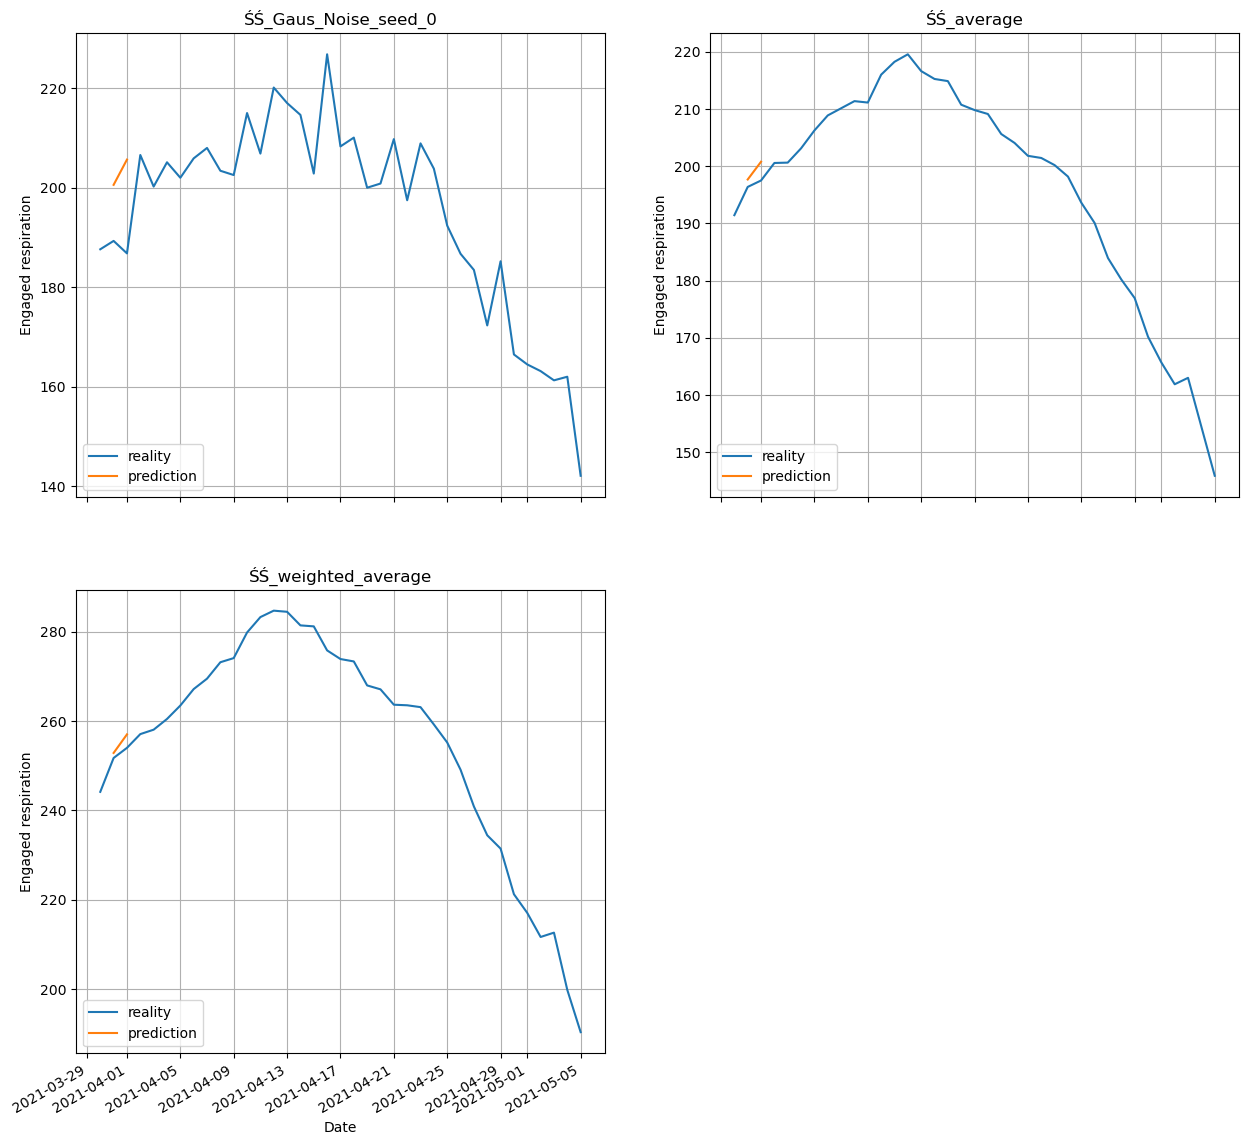
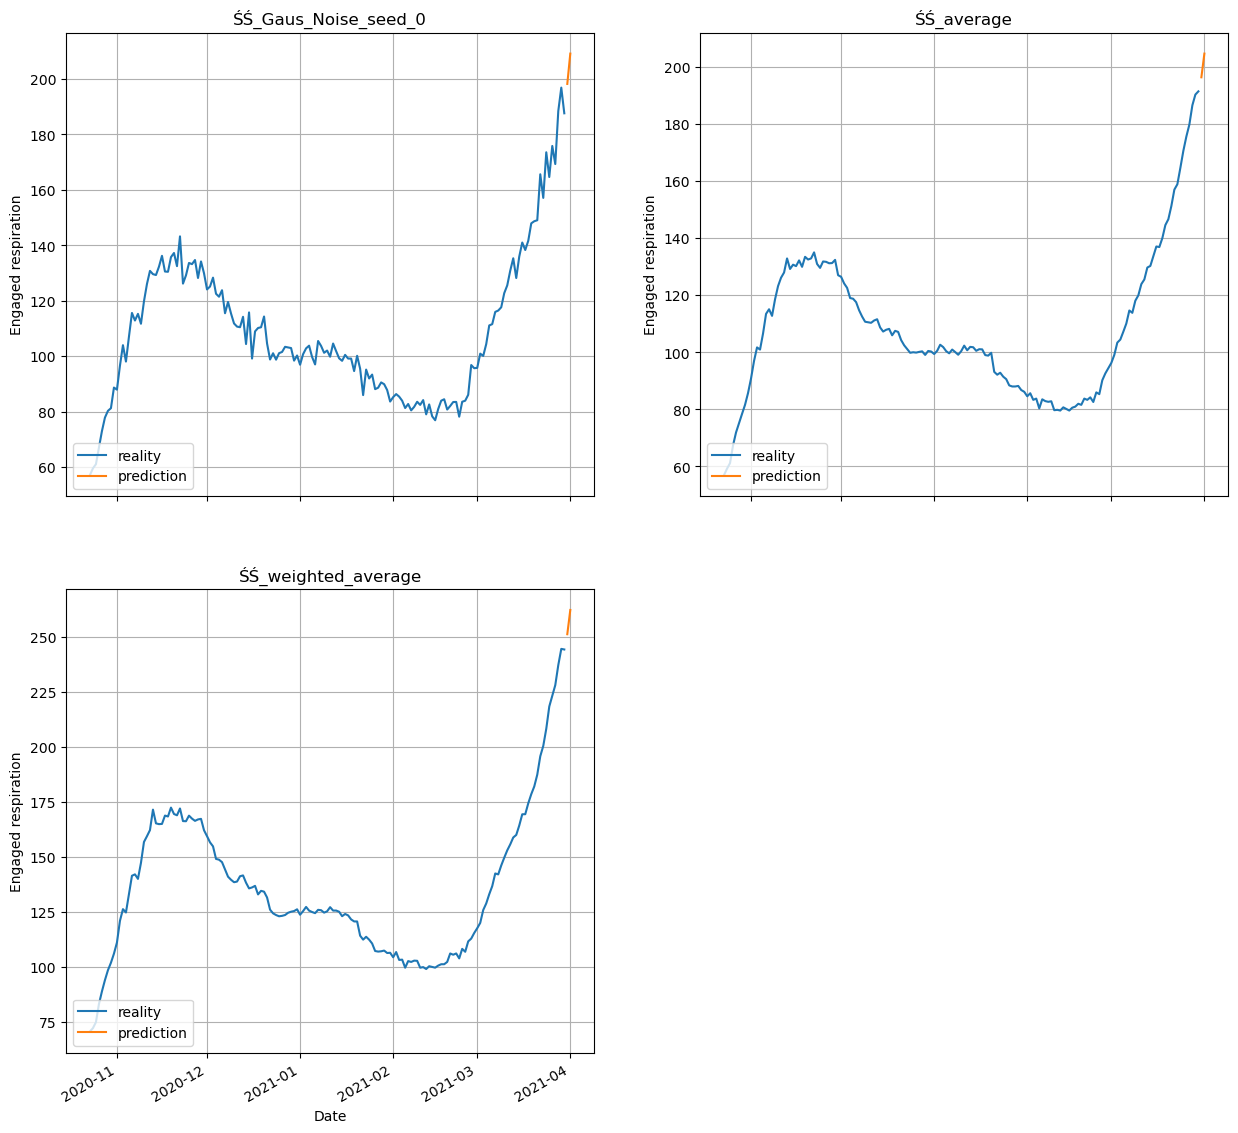
to make subplot using data_all ( don't download  once again)

diff --git a/RNN/prediction/make_prediction_and_plots.py b/RNN/prediction/make_prediction_and_plots.py
@@ -15,12 +15,10 @@ def make_prediction_and_subplot_for_all_regions(last_day_train='2021-03-20', day
     results = make_prediction_n_days_ahead(data_all_days, day_ahead=day_ahead,
                                            period_of_time=period_of_time_learning, last_day_train=last_day_train)
     if subplot_for_regions:
-        results.to_csv('results/csv/prediction_for_region.csv', index=False)
-
-        data_merge_from_to = get_all_merge_data_from_to(last_day_train)
+        data_merge_from_to = get_all_merge_data_from_to(data= data_all_days, last_day= last_day_train)
         subplot_prediction_for_all_region([results], ['prediction'], data_merge_from_to)
-    results['region'] = results['region'].replace('ŚŚ_average', 'POLSKA')
 
+    results['region'] = results['region'].replace('ŚŚ_average', 'POLSKA')
     results.loc[results['region'] == 'POLSKA', 'prediction'] = results.loc[
                                                                    results['region'] == 'POLSKA', 'prediction'] * 16
     plot_prediction_to_poland_from_results([results], ['prediction'], data_all_days_org)
